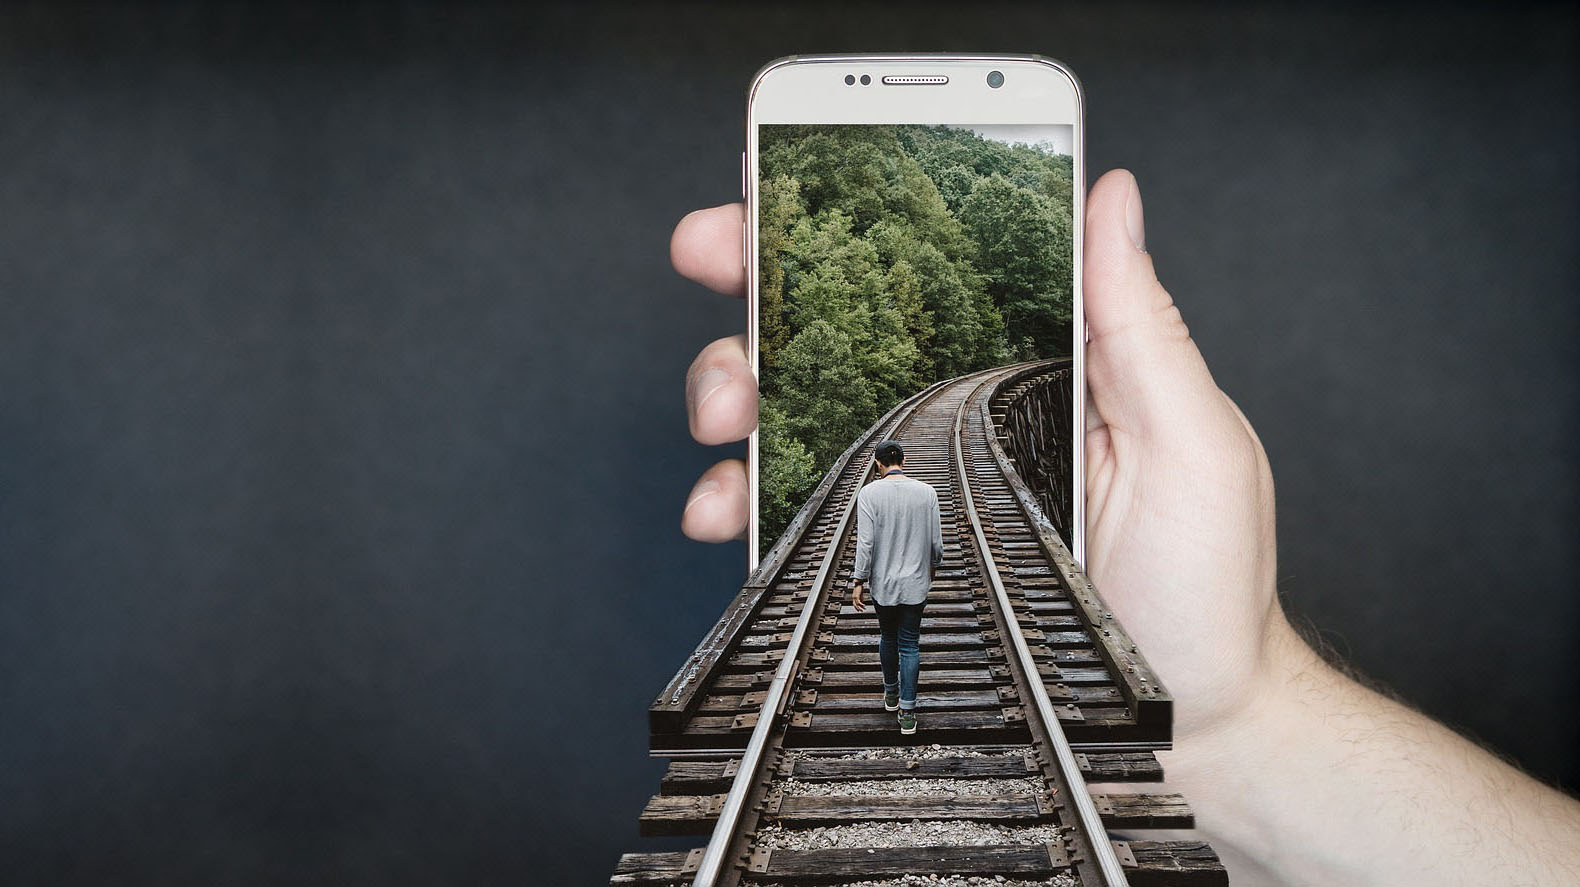
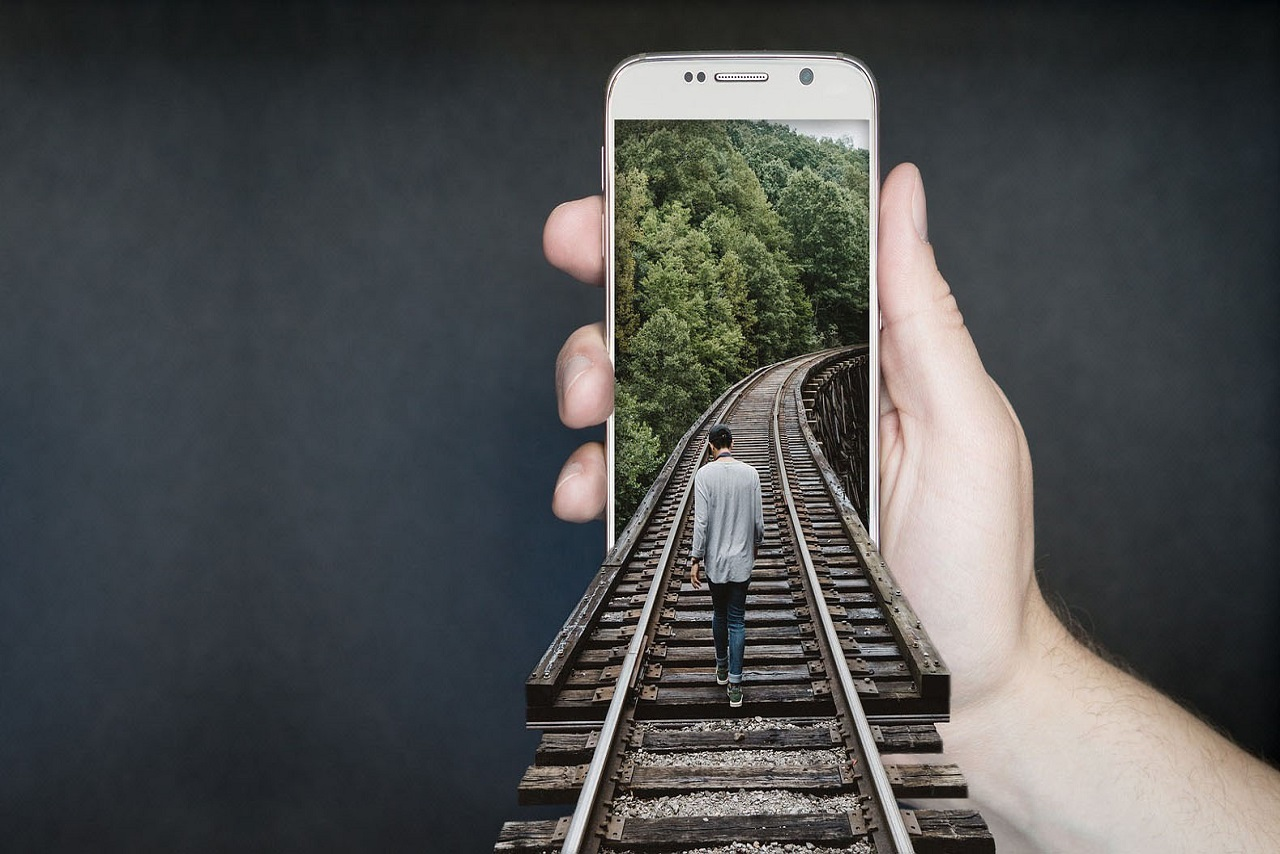
Se agregaron las imagenes del carrusel y se ajusto la resolucion de las mismas

Changed region(s): [[0.5312, 0.4871, 0.625, 0.548]]

diff --git a/index.html b/index.html
@@ -91,13 +91,13 @@
     </div>
     <div class="carousel-inner">
       <div class="carousel-item active" data-bs-interval="4000">
-        <img src="./media/Realidad virtual.jpg" class="d-block w-100" alt="...">
+        <img src="./media/fondosImg/carrusel_2.jpg" class="d-block w-100" alt="...">
       </div>
       <div class="carousel-item" data-bs-interval="3000">
-        <img src="./media/Realidad virtual.jpg" class="d-block w-100" alt="...">
+        <img src="./media/fondosImg/carrusel_4.jpg" class="d-block w-100" alt="...">
       </div>
       <div class="carousel-item" data-bs-interval="3000">
-        <img src="./media/Realidad virtual.jpg" class="d-block w-100" alt="...">
+        <img src="./media/fondosImg/carrusel_3.jpg" class="d-block w-100" alt="...">
       </div>
     </div>
     <button class="carousel-control-prev" type="button" data-bs-target="#carouselExampleIndicators" data-bs-slide="prev">
